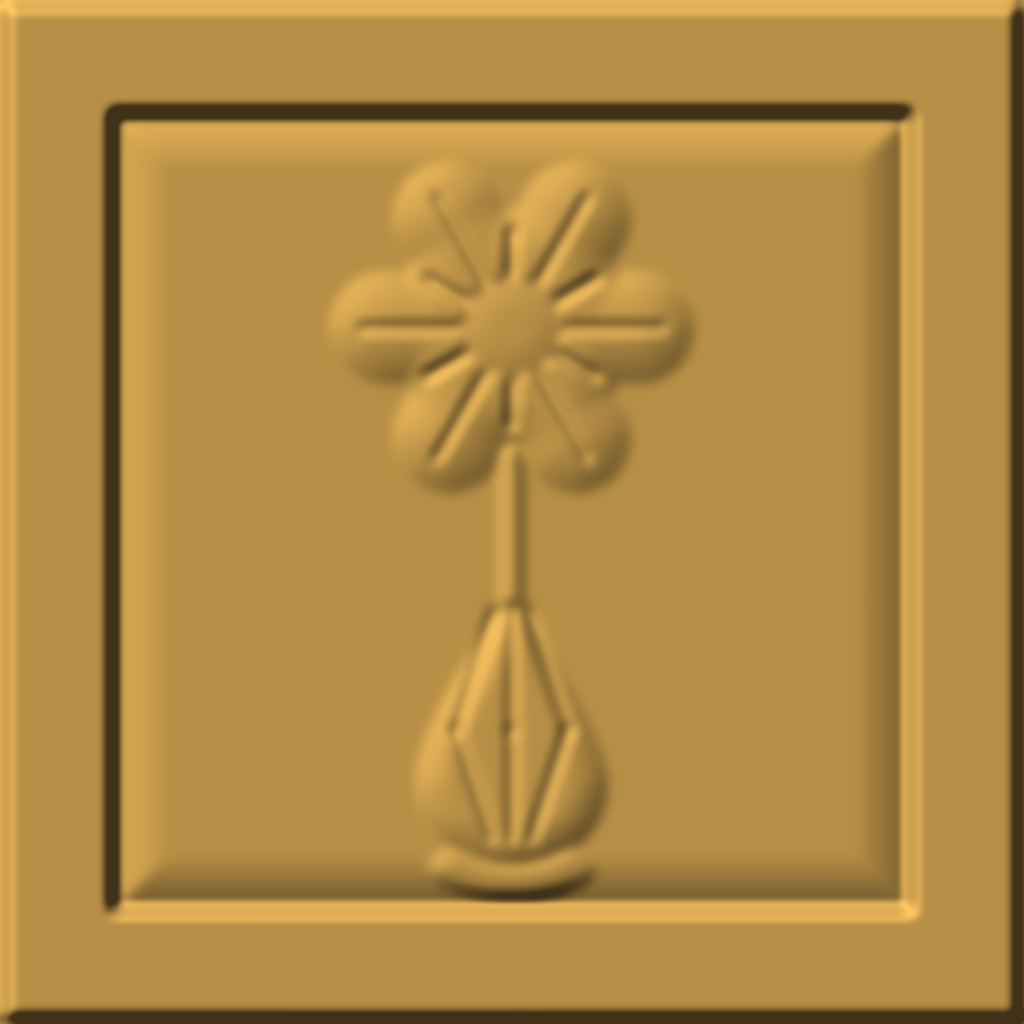
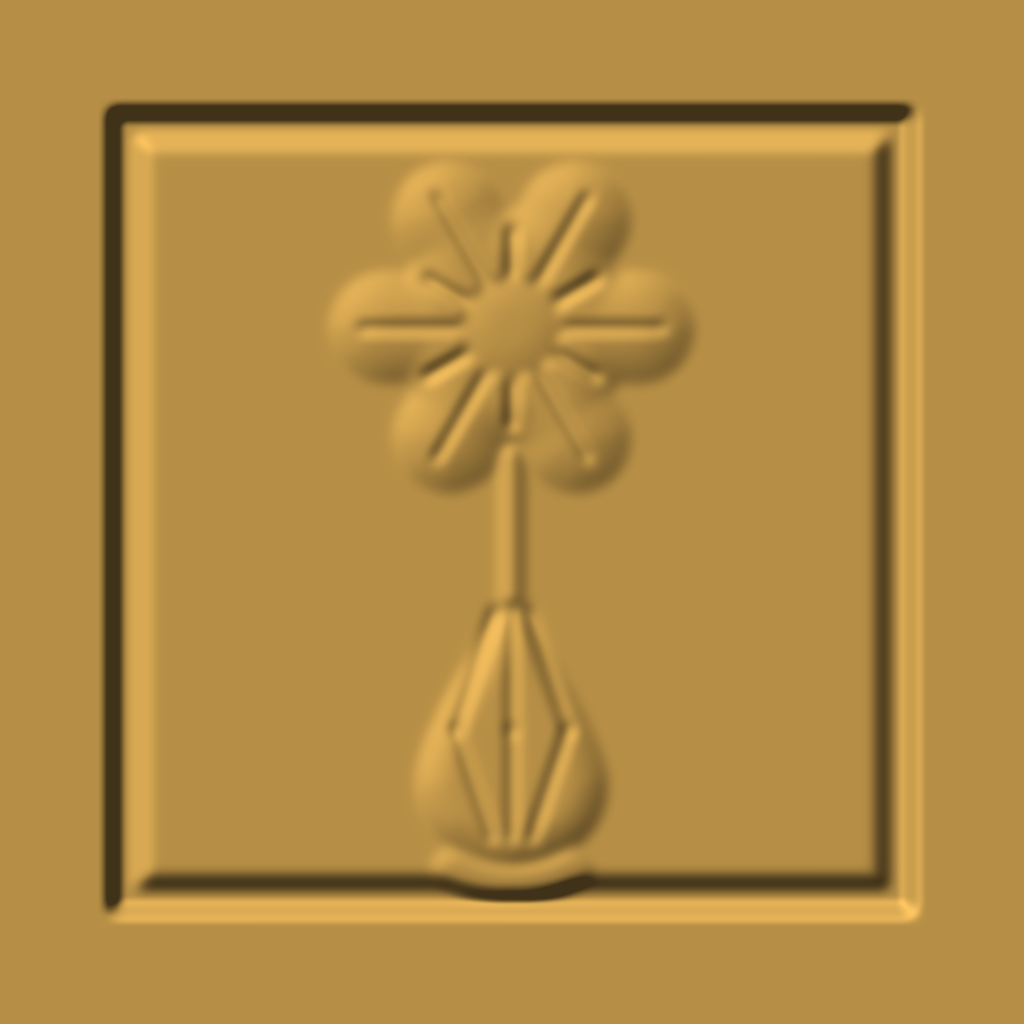
Le cadre du panneau était un contour d'un pixel, et son fond de tuile un dôme
Trois corrections d'un même profil, mesurées sur l'atlas avant et après (sips → BMP,
lecture des octets ; aucune cuisson prise).

`bomber(CARRE, 0.0, 1.0, 0.01)` posait le fond de tuile en DÔME : avec une épaisseur,
`bombe` retombe à zéro sur les dix pixels du bord, donc chaque abouchement de deux
panneaux portait une gorge parasite au milieu de l'or plein — 0,408 au lieu de 1,0 à
tu=0. J'avais d'abord attribué ces filets verticaux aux coutures de `_taille_repetee`,
c'est-à-dire à la géométrie ; ils étaient dans la carte, et `corde` et `tresse` posent
leur fond à épaisseur nulle depuis toujours. C'est la fausse piste qui reviendra si on
ne la nomme pas : un filet qui suit le pas d'une tuile n'accuse pas la taille répétée,
il accuse le bord de la tuile.

Le trait du cadre n'a plus un pixel mais une largeur (LARGEUR_TRAIT = 0,022, 3,7 cm) :
bombé sur une ligne d'un pixel, son fond ne descendait pas à 0 — le FONDU de cinq
pixels l'y remontait à 0,20, le trait sortait à 2,92 cm sous le nu au lieu de 3,36.
Une arête d'un pixel ne survit pas à un flou de cinq.

FEUILLURE 0,055 → 0,018 : la montée du trait vers le fond du panneau sortait à 5°,
c'est-à-dire à rien sous une lumière rasante.

                    avant       après      visé
bord de tuile       0,408       0,988      1,0
trait (min)         2,92 cm     3,33 cm    3,36 cm
marche or→trait     1,69 cm     2,10 cm    2,16 cm
marche trait→fond   0,75 cm     1,16 cm    1,21 cm
[…]

Changed region(s): [[0.0938, 0.0938, 0.9062, 0.9062], [0.0, 0.0, 1.0, 1.0]]

diff --git a/beit_hamikdash_gravures.py b/beit_hamikdash_gravures.py
@@ -299,6 +299,13 @@ def bouton_ferme(planche):
 # cordon vaut donc sa demi-largeur, pour que le dôme culmine sur la nervure et nulle part
 # ailleurs.
 CARRE = ((0.0, 0.0), (1.0, 0.0), (1.0, 1.0), (0.0, 1.0))
+
+
+def carre_insere(marge):
+    a, b = marge, 1.0 - marge
+    return ((a, a), (b, a), (b, b), (a, b))
+
+
 # Deux torsions par tuile, et non six : la tuile est CARRÉE, donc une bande de 0,33 ama
 # de haut la reparcourt tous les 0,33 amot — à six mèches, chaque torsion tombait à
 # 2,6 cm et le cordon rendait un filet lisse à dix mètres. Le pas d'une torsion vaut à
@@ -341,7 +348,12 @@ def tresse(planche):
 #     Le bouton et la fleur ouverte sont donc dans la source de la zone haute, et non
 #     empruntés au champ d'en bas : c'est le même couple, au rang que 6:18 leur donne.
 MARGE_PANNEAU = 0.11       # l'or plein autour du champ, en part de la tuile
-FEUILLURE = 0.055          # la montée du fond depuis le trait du cadre
+# Le trait du cadre a une LARGEUR, il n'est pas un contour. Bombé sur une ligne d'un
+# pixel, son fond ne descendait pas à 0 : FONDU l'y remontait à 0,20, le trait sortait à
+# 2,92 cm sous le nu au lieu de 3,36 et sa marche extérieure à 26,7° au lieu de 69°.
+# Une arête d'un pixel ne survit pas à un flou de cinq (mesuré sur l'atlas, 20/09).
+LARGEUR_TRAIT = 0.022      # largeur du trait, en part de la tuile : 3,7 cm sur un panneau
+FEUILLURE = 0.018          # la montée du fond depuis le trait : à 0,055 elle sortait à 5°
 NIVEAU_CHAMP = 0.56        # le fond du panneau, sous l'or plein qui l'entoure
 RAYON_PECAIM = 0.105
 RAYON_COROLLE = 0.180
@@ -359,10 +371,12 @@ def panneau(planche):
     cadre puis remonte en feuillure, et ce sont ses deux épaulements qui font voir le
     panneau. Un rectangle creusé d'une seule marche de 1,5 cm ne rendait rien de face.
     """
-    dedans = 1.0 - MARGE_PANNEAU
-    planche.bomber(CARRE, 0.0, 1.0, 0.01)
-    planche.bomber(((MARGE_PANNEAU, MARGE_PANNEAU), (dedans, MARGE_PANNEAU),
-                    (dedans, dedans), (MARGE_PANNEAU, dedans)), 0.0, NIVEAU_CHAMP, FEUILLURE)
+    # PLAT à 1,0 : avec une épaisseur, `bombe` retombe à zéro sur les dix pixels du bord
+    # et chaque abouchement de deux panneaux porte une gorge parasite au milieu de l'or
+    # plein. `corde` et `tresse` posent leur fond de la même façon, épaisseur nulle.
+    planche.bomber(CARRE, 1.0, 0.0, 0.01)
+    planche.bomber(carre_insere(MARGE_PANNEAU), 0.0, 0.0, 0.01)
+    planche.bomber(carre_insere(MARGE_PANNEAU + LARGEUR_TRAIT), 0.0, NIVEAU_CHAMP, FEUILLURE)
     planche.bomber(ruban([(0.5, 0.38), (0.5, 0.62)], 0.026), NIVEAU_CHAMP, 0.22, 0.013)
     oeuf, calice = bouton(0.5, 0.15, RAYON_PECAIM)
     planche.bomber(calice, NIVEAU_CHAMP, 0.16, 0.020)
